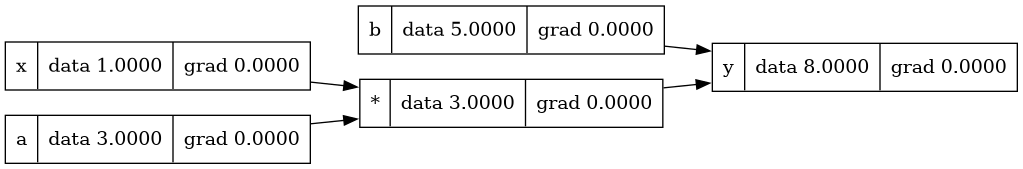
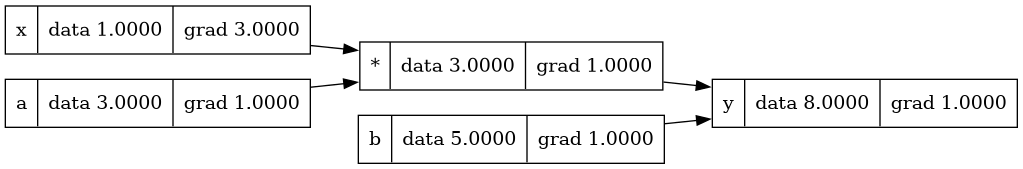
Backward implemented

diff --git a/micrograd/Value.py b/micrograd/Value.py
@@ -6,6 +6,7 @@ class Value :
         self.grad = 0
         self._prev = set(_children)
         self._op =_op
+        self._backward = lambda :None
        
 
     def __repr__(self):
@@ -18,17 +19,43 @@ class Value :
         other = other if isinstance(other,Value) else Value(other)
         out  = Value(self.data + other.data , (self,other),'+')
 
+        def _backward () :
+            self.grad += out.grad
+            other.grad += out.grad
+        out._backward = _backward
+
         return out
 
     def __mul__(self, other):
         other = other if isinstance(other,Value) else Value(other)
         out = Value(self.data * other.data , (self,other),'*')
+
+        def _backward() :
+            self.grad += other.data * out.grad
+            other.grad += self.data * out.grad
+
+        out._backward = _backward
         return out
 
     def __pow__(self,other) :
         assert isinstance(other,(int,float)) , "Erreur : only supporting int/float powers"
         out = Value(self.data ** other ,(self,),f'**{other}')
+
+        def _backward () :
+            self.grad += (other * self.data **(other -1)) * out.grad
+
+        out._backward = _backward
         return out
+
+    def relu(self):
+        out = Value(0 if self.data < 0 else self.data, (self,), 'ReLU')
+
+        def _backward():
+            self.grad += (out.data > 0) * out.grad
+        out._backward = _backward
+
+        return out
+
 
     def __neg__(self): 
         return self * -1
@@ -50,6 +77,25 @@ class Value :
 
     def __rtruediv__(self, other):
         return other * self**-1
+
+
+    def backward(self) :
+        topo = []
+        visited = set()
+
+        def build_topo (v : Value) :
+            if v not in visited :
+                visited.add(v)
+                for c in v._prev :
+                    build_topo(c)
+                topo.append(v)
+        build_topo(self)
+
+        self.grad = 1
+        for v in reversed(topo) :
+            v._backward()
+        
+
 
     
 

diff --git a/code.py b/code.py
@@ -7,6 +7,7 @@ b = Value(5,label='b')
 y= a*x + b
 y.label ='y'
 
+y.backward()
 D = DAG(y)
 
 D.draw_dot()
